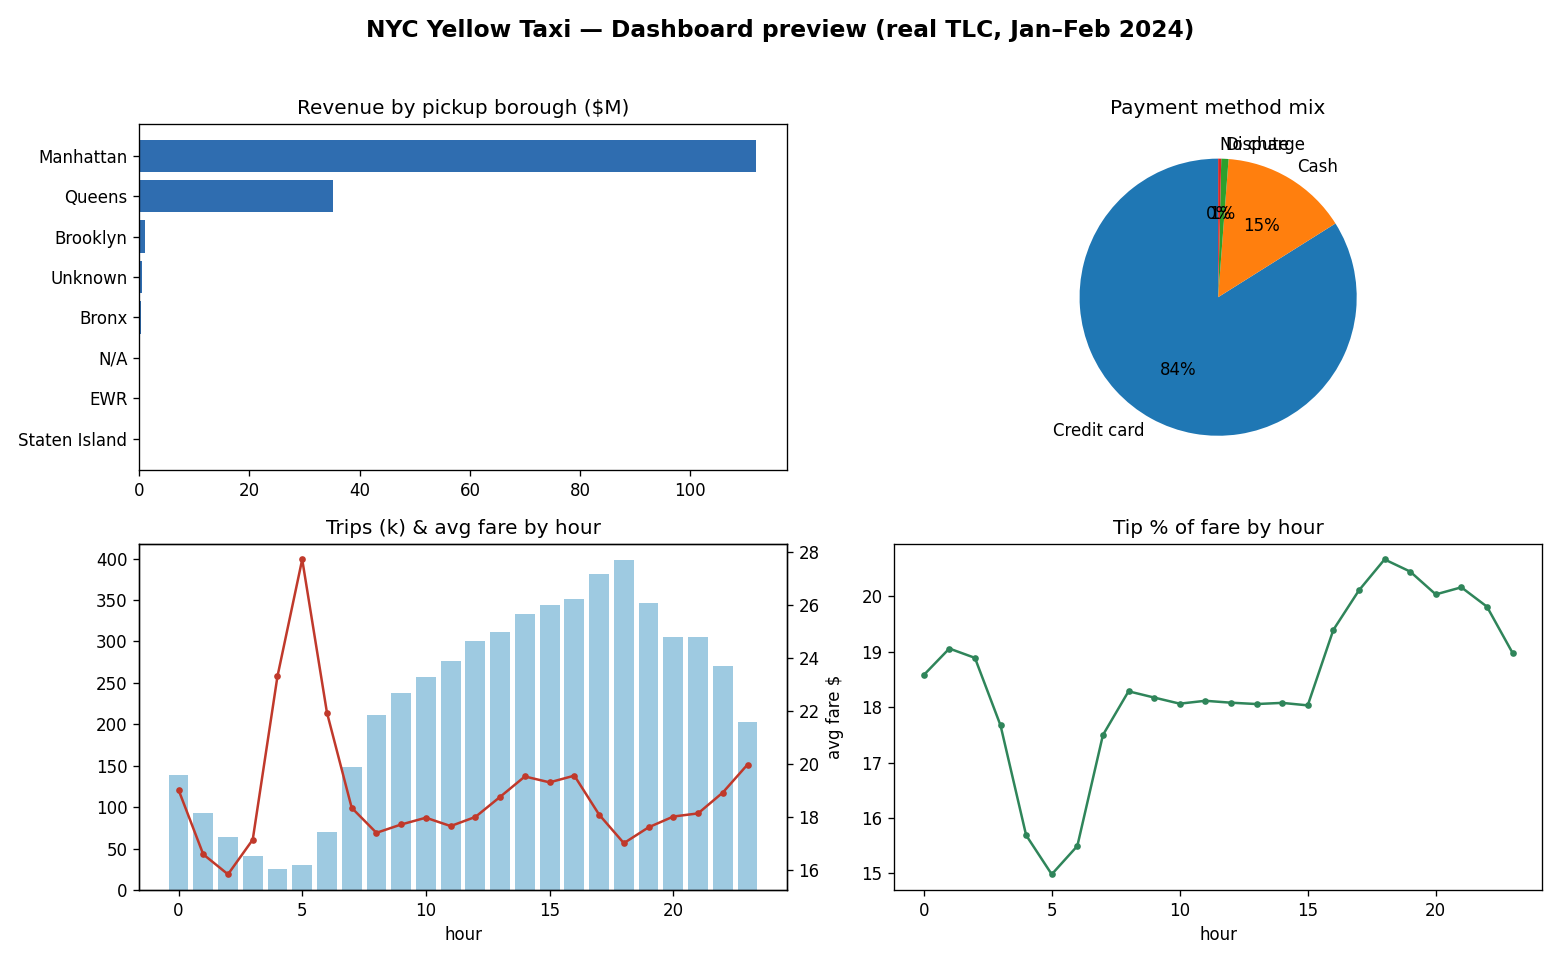
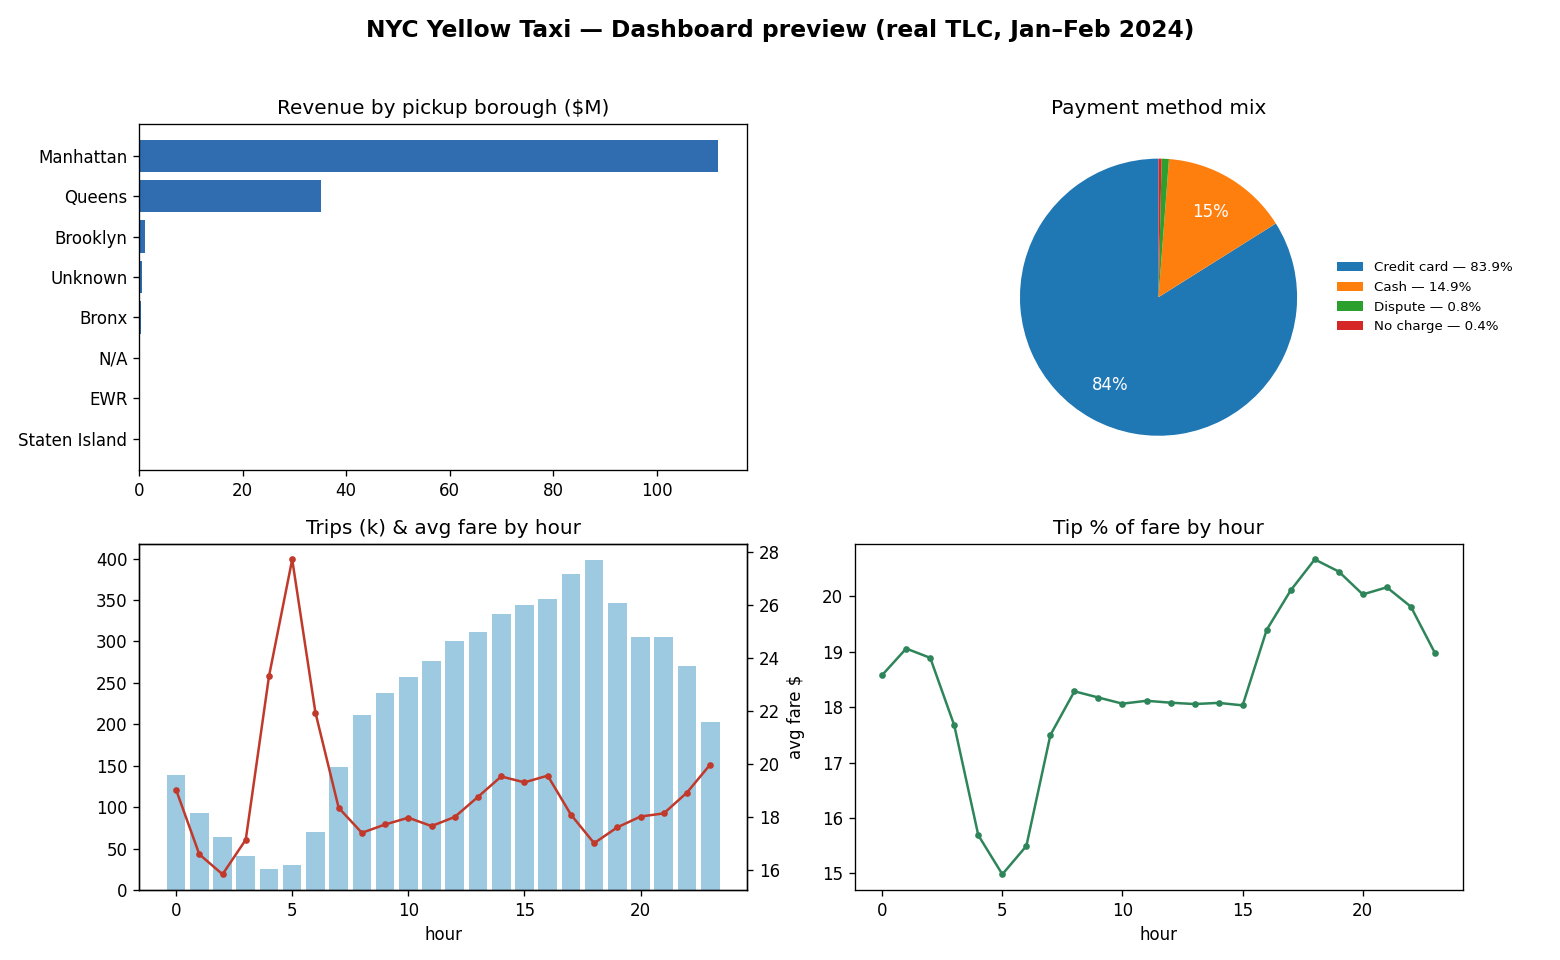
Fix payment-mix pie labels: legend + only label major slices

diff --git a/dashboard/make_preview.py b/dashboard/make_preview.py
@@ -14,7 +14,16 @@ b = m.groupby("borough").revenue.sum().sort_values() / 1e6
 ax[0,0].barh(b.index, b.values, color="#2f6db0"); ax[0,0].set_title("Revenue by pickup borough ($M)")
 
 p = m.groupby("payment_method").trips.sum().sort_values(ascending=False)
-ax[0,1].pie(p.values, labels=p.index, autopct="%1.0f%%", startangle=90); ax[0,1].set_title("Payment method mix")
+tot = p.sum()
+# only print % on slices big enough to read; everything is named in the legend
+autopct = lambda v: f"{v:.0f}%" if v >= 3 else ""
+wedges, _, _ = ax[0,1].pie(p.values, autopct=autopct, startangle=90,
+                           pctdistance=0.72, colors=plt.cm.tab10.colors,
+                           textprops={"fontsize": 10, "color": "white"})
+ax[0,1].legend(wedges, [f"{n} — {v/tot*100:.1f}%" for n, v in p.items()],
+               loc="center left", bbox_to_anchor=(0.98, 0.5),
+               fontsize=8, frameon=False)
+ax[0,1].set_title("Payment method mix")
 
 h = m.groupby("pickup_hour").agg(trips=("trips","sum"), fare=("fare_sum","sum"))
 h["avg_fare"] = h.fare/h.trips